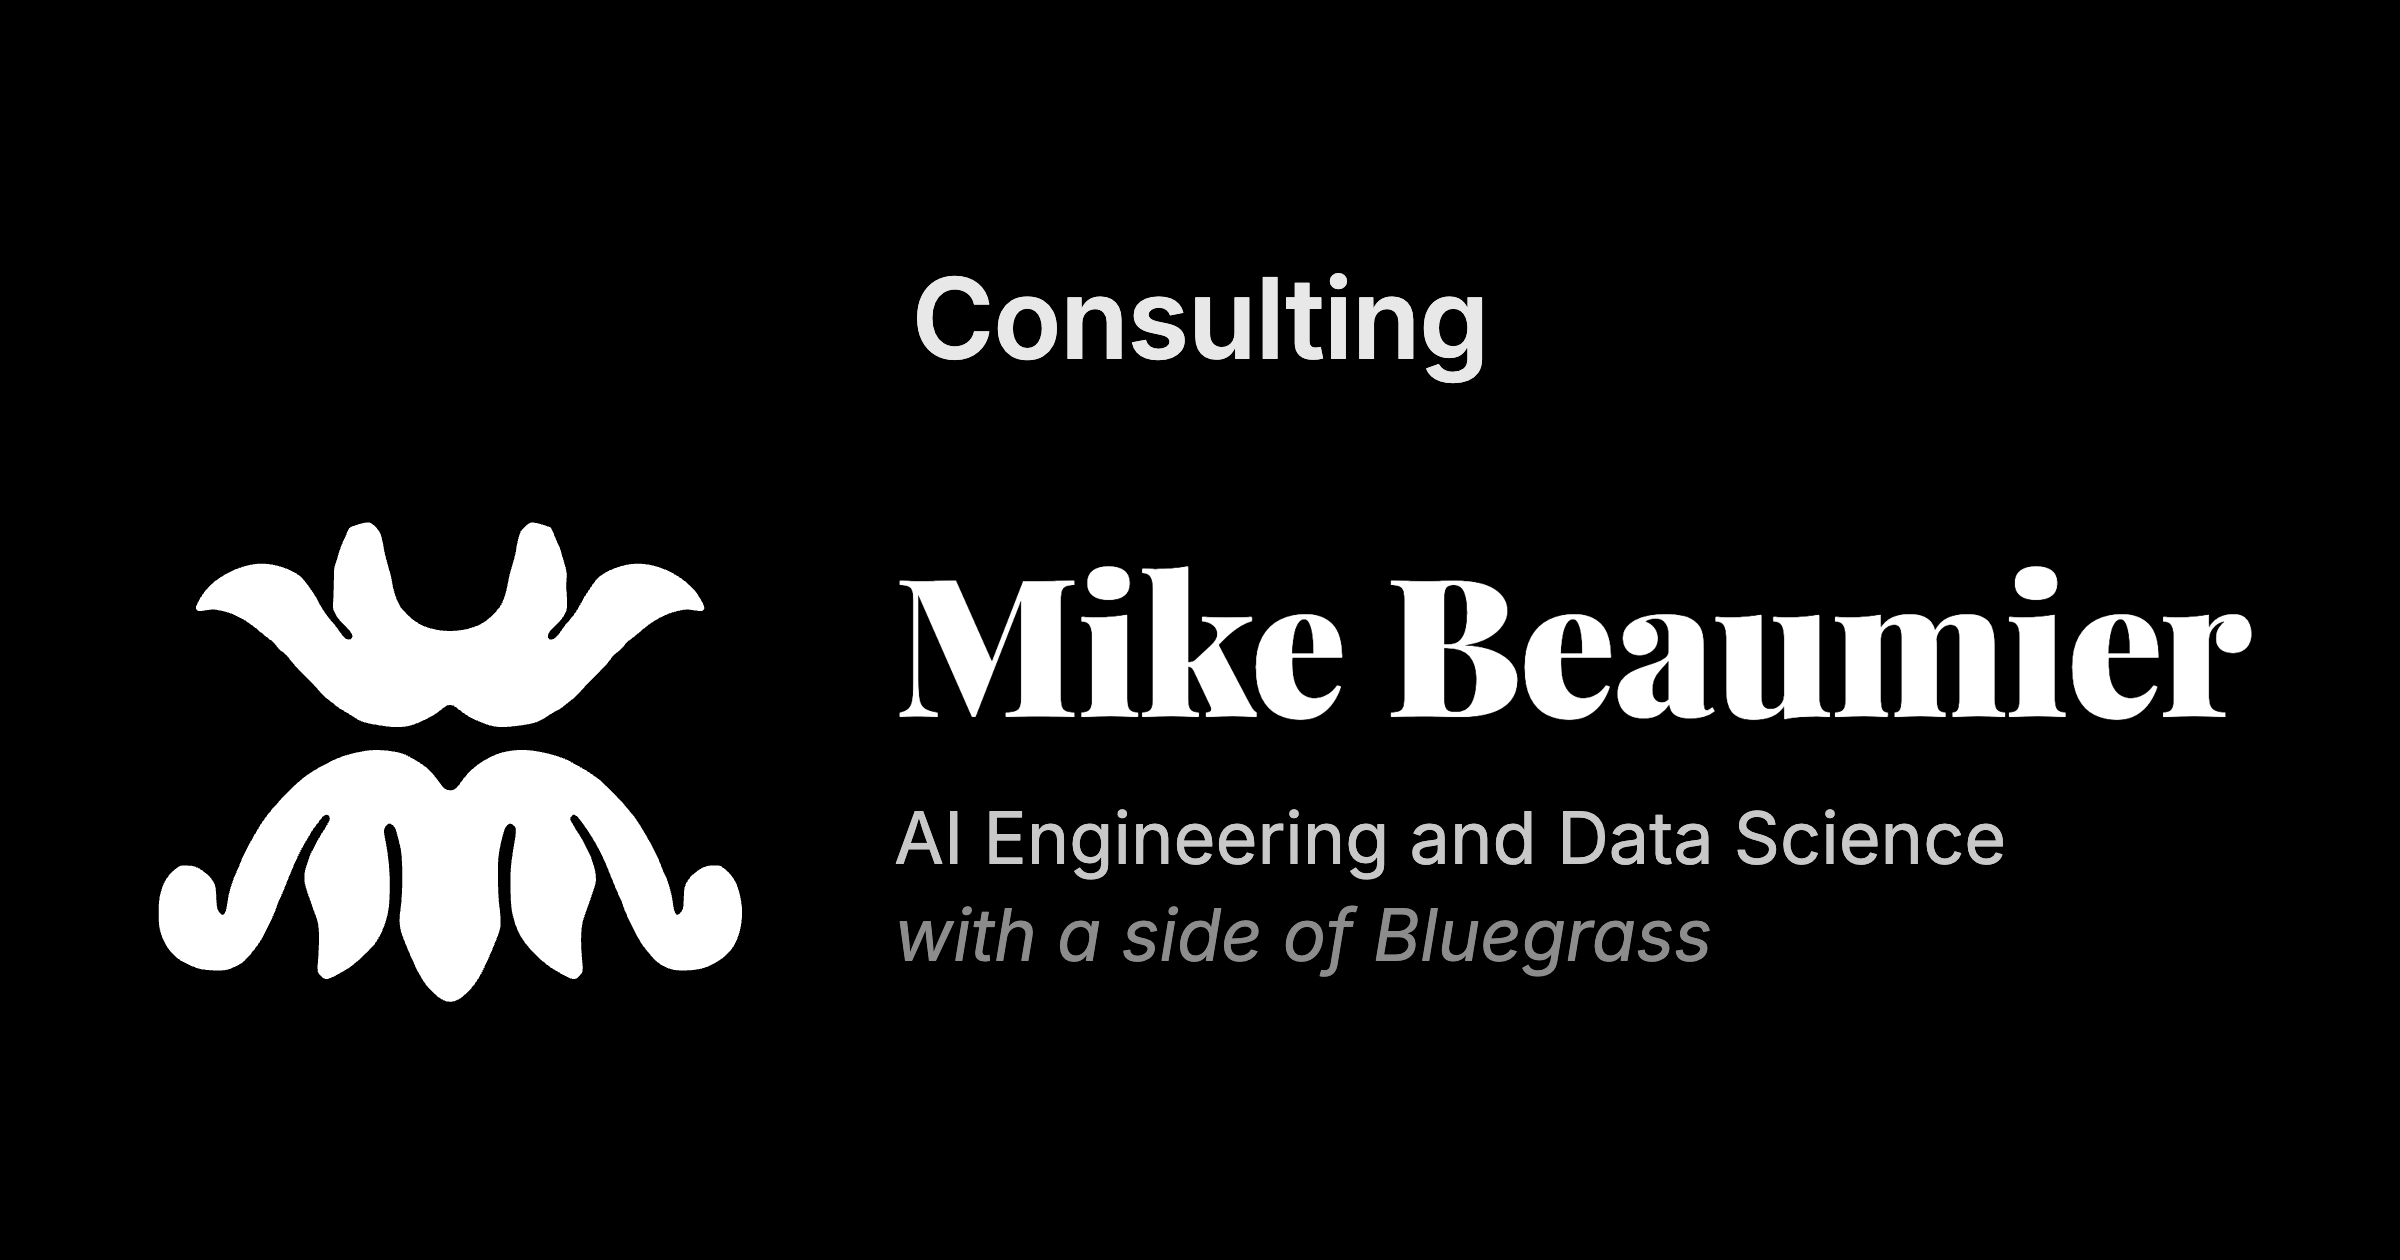
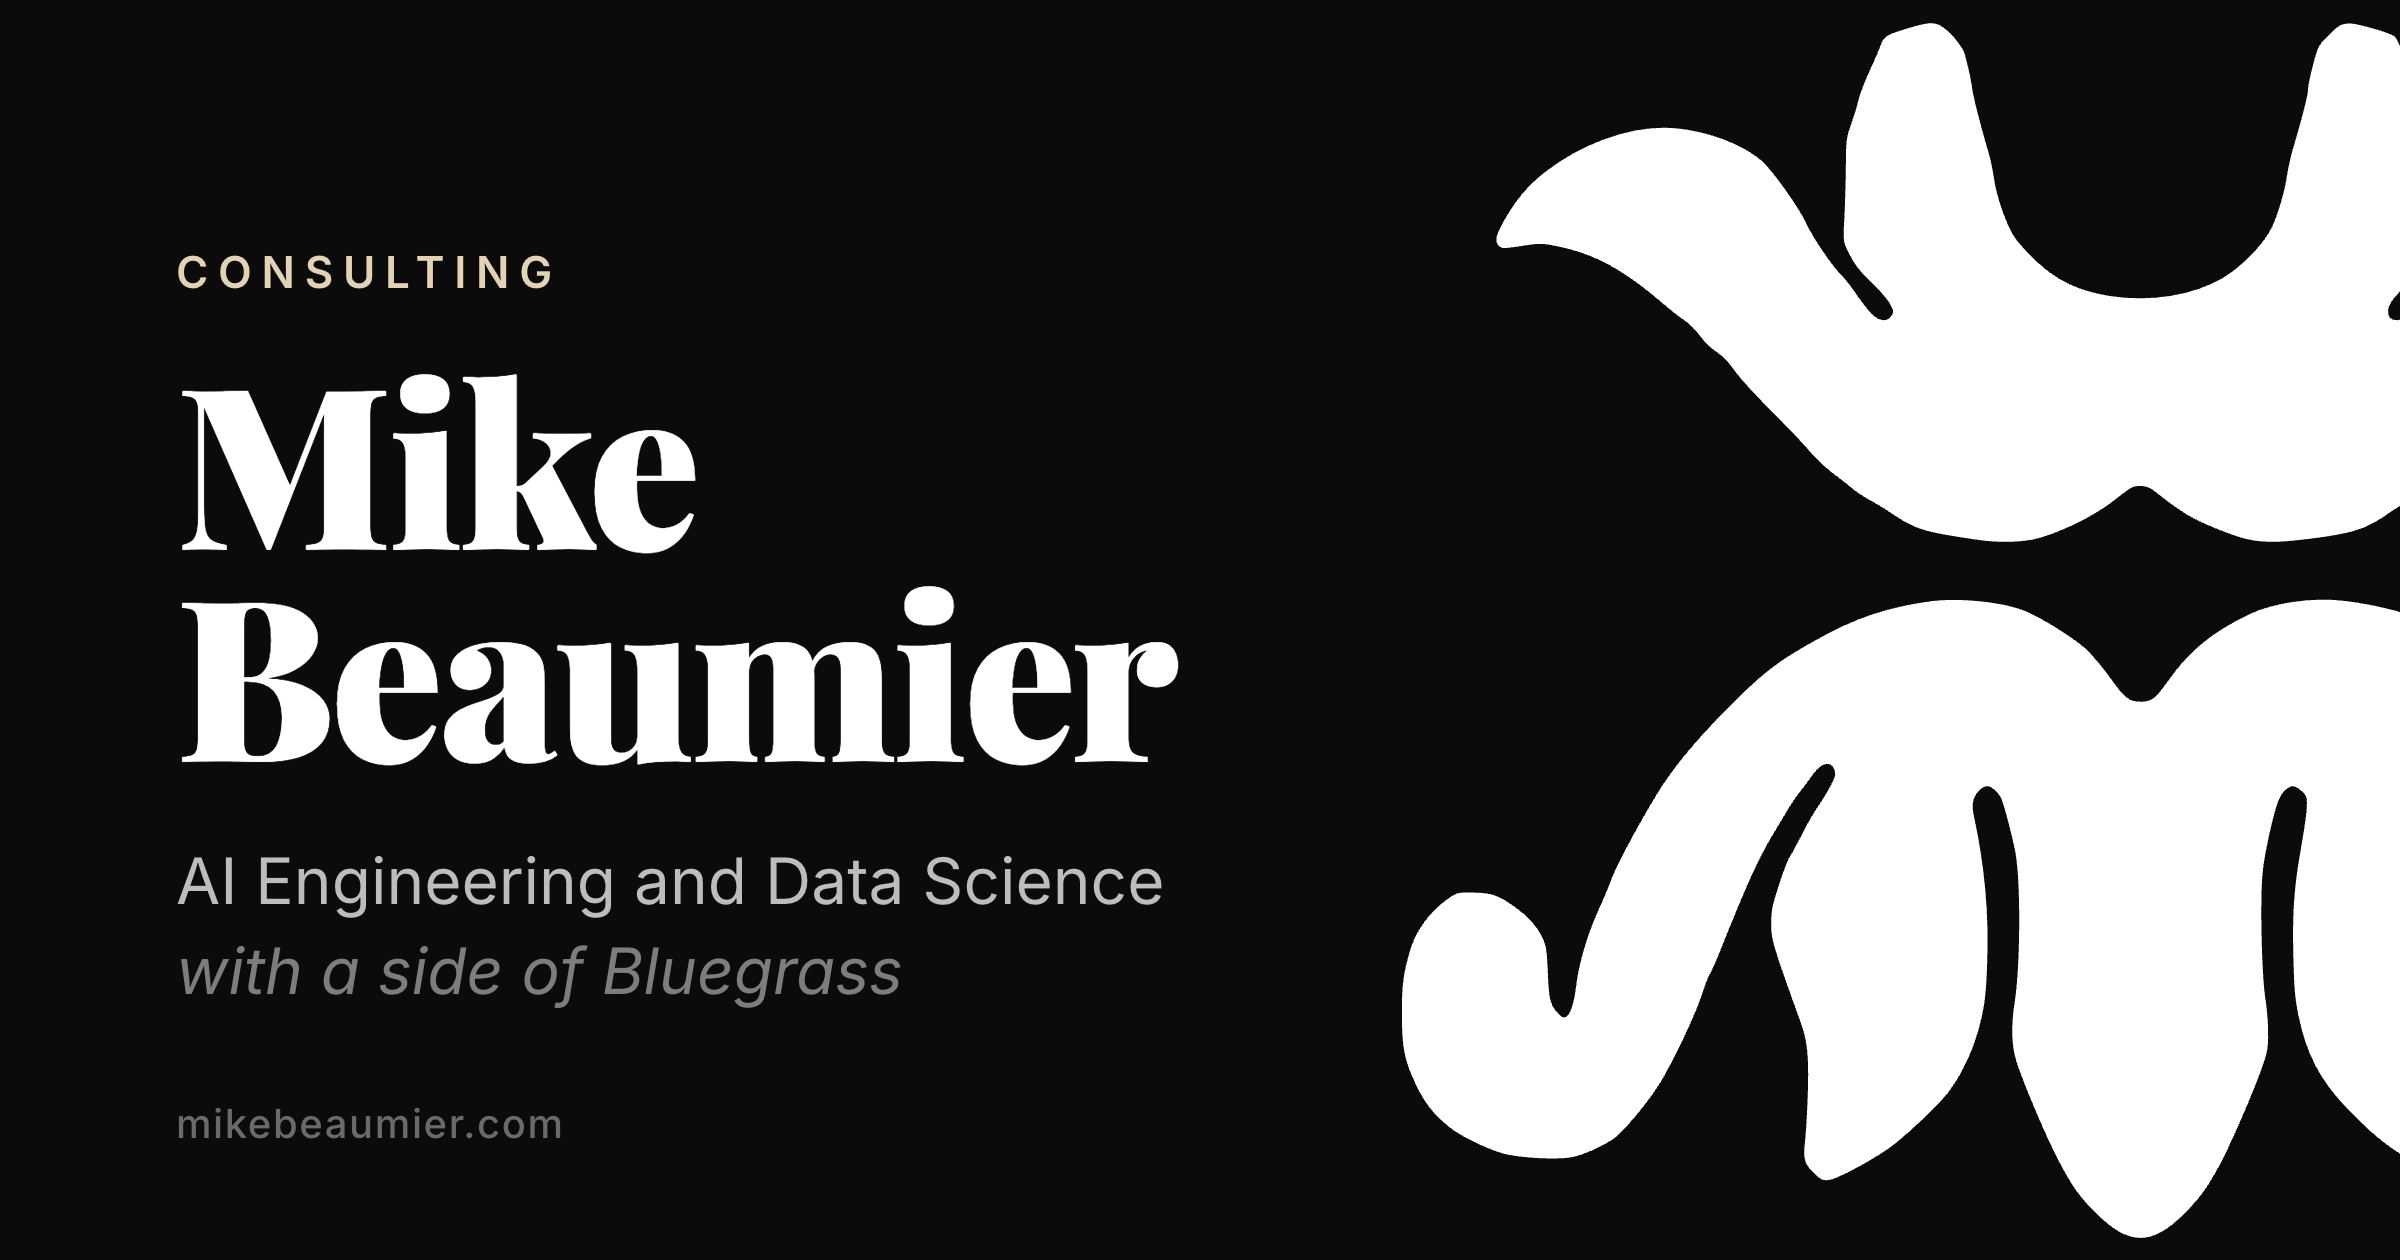
Share cards: editorial layout, cropped inlay, pearl section label

diff --git a/docs/og/og.html b/docs/og/og.html
@@ -1,26 +1,29 @@
 <!DOCTYPE html>
-<!-- Share card source. public/og.png is this page rendered at 1200×630, 2x. See README.md -->
+<!-- Share card source. Rendered by render.sh at 1200×630, 2x. og.html?section=Writing adds the
+     label above the name; no section is the site card. See README.md -->
 <html><head><meta charset="utf-8">
-<link href="https://fonts.googleapis.com/css2?family=Playfair+Display:wght@900&family=Inter:ital,wght@0,400;0,600;1,400&display=block" rel="stylesheet">
+<link href="https://fonts.googleapis.com/css2?family=Playfair+Display:wght@900&family=Inter:ital,wght@0,400;0,500;0,600;1,400&display=block" rel="stylesheet">
 <style>
   html, body { margin: 0; }
-  body { width: 1200px; height: 630px; background: #000; color: #fff; display: flex;
-    flex-direction: column; align-items: center; justify-content: center; gap: 64px;
-    font-family: Inter, sans-serif; }
-  .brand { display: flex; align-items: center; gap: 72px; }
-  svg { width: 300px; height: auto; flex: none; }
-  h1 { font-family: 'Playfair Display', serif; font-weight: 900; font-size: 96px; line-height: 1;
-    margin: 0 0 28px; letter-spacing: -0.01em; }
-  .section { font-size: 56px; font-weight: 600; letter-spacing: -0.01em; color: #e8e8e8;
-    margin: 0; }
+  body { width: 1200px; height: 630px; overflow: hidden; position: relative; background: #0b0b0b;
+    color: #fff; font-family: Inter, sans-serif; -webkit-font-smoothing: antialiased; }
+  /* The favicon's inlay, oversized and cropped by the right edge */
+  .mark { position: absolute; width: 760px; right: -250px; top: 50%; transform: translateY(-50%); }
+  .text { position: absolute; left: 88px; top: 0; bottom: 0; width: 640px; display: flex;
+    flex-direction: column; justify-content: center; }
+  /* Pearl, like a mother-of-pearl inlay: the card's only colour */
+  .section { font-size: 22px; font-weight: 600; letter-spacing: 0.22em; text-transform: uppercase;
+    color: #e3d3b4; margin: 0 0 26px; }
   .section:empty { display: none; }
-  .tagline em { color: #8c8c8c; }
-  .tagline { font-size: 36px; line-height: 1.35; color: #c8c8c8; margin: 0; }
+  h1 { font-family: 'Playfair Display', serif; font-weight: 900; font-size: 112px; line-height: 0.95;
+    letter-spacing: -0.015em; margin: 0 0 30px; }
+  .tagline { font-size: 32px; line-height: 1.4; color: #bdbdbd; margin: 0; }
+  .tagline em { color: #7d7d7d; }
+  .domain { position: absolute; left: 88px; bottom: 56px; font-size: 20px; font-weight: 500;
+    letter-spacing: 0.04em; color: #6a6a6a; }
 </style></head>
 <body>
-  <p class="section" id="section"></p>
-  <div class="brand">
-  <svg viewBox="175 254 910 752" aria-hidden="true">
+  <svg class="mark" viewBox="175 254 910 752" aria-hidden="true">
     <g transform="translate(175.5 254.5) translate(0 751) scale(0.1 -0.1)" fill="#fff">
 <path d="M3147 7355 c-119 -36 -137 -47 -156 -102 -7 -21 -37 -90 -66 -153
 -29 -63 -58 -140 -65 -170 -7 -30 -26 -95 -44 -145 -30 -86 -31 -97 -32 -255
@@ -90,13 +93,13 @@
 -405 86 -582 61z"/>
     </g>
   </svg>
-  <div>
-    <h1>Mike Beaumier</h1>
+  <div class="text">
+    <p class="section" id="section"></p>
+    <h1>Mike<br />Beaumier</h1>
     <p class="tagline">AI Engineering and Data Science<br /><em>with a side of Bluegrass</em></p>
   </div>
-  </div>
+  <div class="domain">mikebeaumier.com</div>
 <script>
-  // og.html?section=Writing renders that section's card; no section renders the site card
   document.getElementById('section').textContent =
     new URLSearchParams(location.search).get('section') || '';
 </script>

diff --git a/docs/og/README.md b/docs/og/README.md
@@ -1,9 +1,10 @@
 # Share card
 
 `public/og.png` is the image link previews show (LinkedIn, Slack, iMessage, X) for pages
-without their own `image`: the favicon's inlay (`public/favicon.svg`) beside "Mike Beaumier" and
-"AI Engineering and Data Science with a side of Bluegrass", white on black like the favicon.
-Keep it bold: LinkedIn often shows it as a ~160px thumbnail.
+without their own `image`: "Mike Beaumier" and "AI Engineering and Data Science with a side of
+Bluegrass" on the left, and the favicon's inlay (`public/favicon.svg`) oversized and cropped by
+the right edge, on off-black. The section label is pearl, the card's only colour. Keep it bold:
+LinkedIn often shows it as a ~160px thumbnail.
 
 Each section gets the same card with a label above it: Work History (`/cv/`), Writing
 (`/blog/`, including posts without their own image), Project Portfolio (`/projects/`) and

diff --git a/CLAUDE.md b/CLAUDE.md
@@ -30,7 +30,7 @@ npm run check    # type check
 - `src/pages/rss.xml.ts`: the blog's RSS feed (description and link for each post)
 - Sitemap: built by `@astrojs/sitemap` as `sitemap-index.xml`; `public/robots.txt` points to it
 - Share previews: `Base.astro` sets the Open Graph tags. Pages without their own image use
-  `public/og.png`, a 2400×1260 card of the favicon's inlay beside Mike's name (sections get
+  `public/og.png`, a 2400×1260 card of Mike's name beside the favicon's inlay (sections get
   labelled copies in `public/og/`); its source and how to re-render it are in `docs/og/`.
 - `src/components/sims/`: interactive components for MDX posts. `RandomWalk.astro` is the
   template: a canvas custom element that animates only while on screen.
